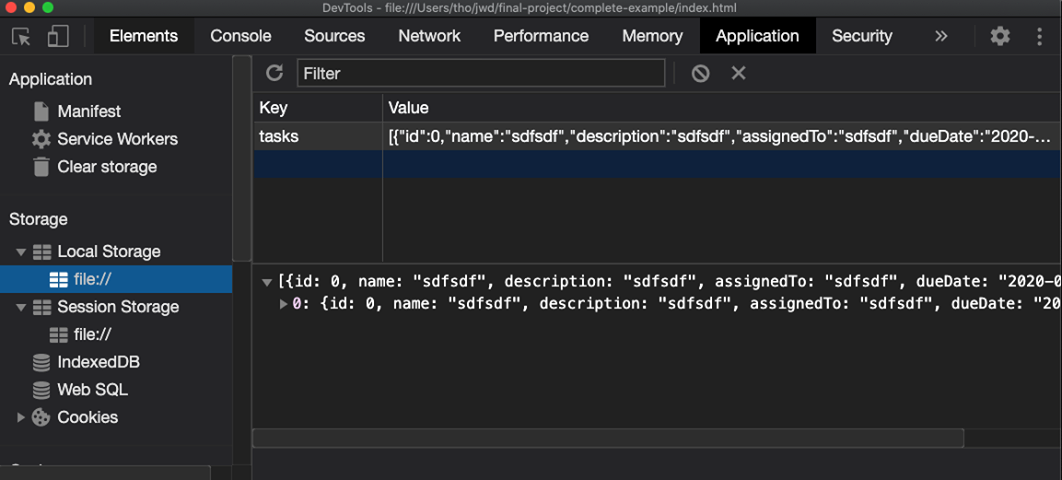
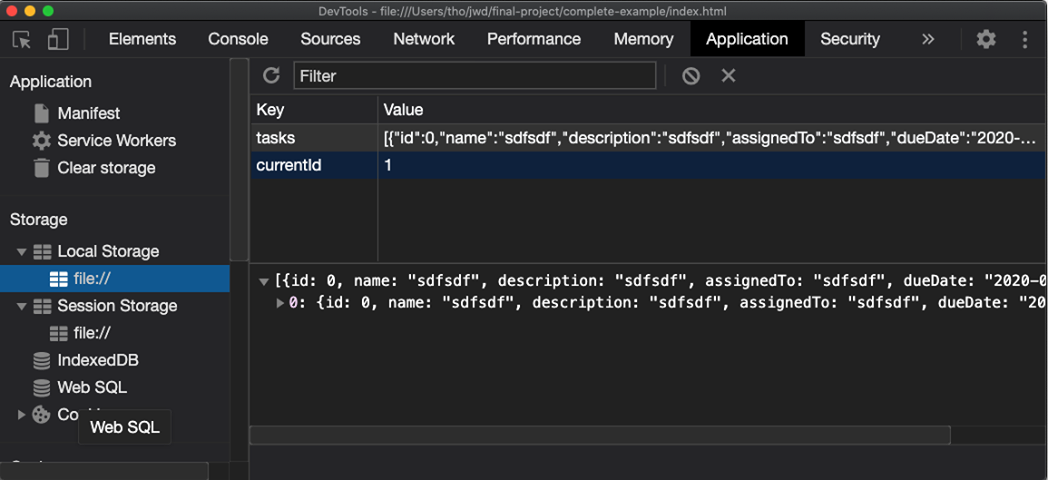
Add currentId to task-9

diff --git a/complete-example/js/taskManager.js b/complete-example/js/taskManager.js
@@ -2,6 +2,7 @@
 // Add an data-task-id attribute to each task
 // OPTIONAL 1: Add visible or invisible class to the "Mark As Done" button depending on if the status is 'TODO'
 // OPTIONAL 2: Change the styling of the status pill depending on the passed in status
+// Add a Delete button with the class delete-button
 const createTaskHtml = (id, name, description, assignedTo, dueDate, status) => `
     <li class="list-group-item" data-task-id=${id}>
         <div class="d-flex w-100 mt-2 justify-content-between align-items-center">
@@ -14,7 +15,8 @@ const createTaskHtml = (id, name, description, assignedTo, dueDate, status) => `
         </div>
         <p>${description}</p>
         <div class="d-flex w-100 justify-content-end">
-            <button class="btn btn-outline-success done-button ${status === 'TODO' ? 'visible' : 'invisible'}">Mark As Done</button>
+            <button class="btn btn-outline-success done-button mr-1 ${status === 'TODO' ? 'visible' : 'invisible'}">Mark As Done</button>
+            <button class="btn btn-outline-danger delete-button">Delete</button>
         </div>
     </li>
 `;
@@ -101,17 +103,32 @@ class TaskManager {
 
         // Store the JSON string in localStorage
         localStorage.setItem('tasks', tasksJson);
+
+        // Convert the currentId to a string;
+        const currentId = String(this.currentId);
+
+        // Store the currentId in localStorage
+        localStorage.setItem('currentId', currentId);
     }
 
     // Create the load method
     load() {
         // Check if any tasks are saved in localStorage
         if (localStorage.getItem('tasks')) {
-            // Get the JSON string of tasks in local storage
+            // Get the JSON string of tasks in localStorage
             const tasksJson = localStorage.getItem('tasks');
 
             // Convert it to an array and store it in our TaskManager
             this.tasks = JSON.parse(tasksJson);
+        }
+
+        // Check if the currentId is saved in localStorage
+        if (localStorage.getItem('currentId')) {
+            // Get the currentId string in localStorage
+            const currentId = localStorage.getItem('currentId');
+
+            // Convert the currentId to a number and store it in our TaskManager
+            this.currentId = Number(currentId);
         }
     }
 }

diff --git a/task-9/example/js/taskManager.js b/task-9/example/js/taskManager.js
@@ -75,17 +75,32 @@ class TaskManager {
 
         // Store the JSON string in localStorage
         localStorage.setItem('tasks', tasksJson);
+
+        // Convert the currentId to a string;
+        const currentId = String(this.currentId);
+
+        // Store the currentId in localStorage
+        localStorage.setItem('currentId', currentId);
     }
 
     // Create the load method
     load() {
         // Check if any tasks are saved in localStorage
         if (localStorage.getItem('tasks')) {
-            // Get the JSON string of tasks in local storage
+            // Get the JSON string of tasks in localStorage
             const tasksJson = localStorage.getItem('tasks');
 
             // Convert it to an array and store it in our TaskManager
             this.tasks = JSON.parse(tasksJson);
+        }
+
+        // Check if the currentId is saved in localStorage
+        if (localStorage.getItem('currentId')) {
+            // Get the currentId string in localStorage
+            const currentId = localStorage.getItem('currentId');
+
+            // Convert the currentId to a number and store it in our TaskManager
+            this.currentId = Number(currentId);
         }
     }
 }

diff --git a/task-9/README.md b/task-9/README.md
@@ -11,14 +11,19 @@ In this task, we'll _persist_ (ie: save) our tasks to LocalStorage, so that we c
 > #### Useful Resources for this step
 > - [Using the Web Storage API](https://developer.mozilla.org/en-US/docs/Web/API/Web_Storage_API/Using_the_Web_Storage_API)
 > - [JSON.stringify()](https://developer.mozilla.org/en-US/docs/Web/JavaScript/Reference/Global_Objects/JSON/stringify)
+> - [String](https://developer.mozilla.org/en-US/docs/Web/JavaScript/Reference/Global_Objects/String)
 
-In this step, we'll add a `save()` method to our TaskManager, that we can call to save the current `this.tasks` to localStorage.
+In this step, we'll add a `save()` method to our TaskManager, that we can call to save the current `this.tasks` to localStorage. We also need to save the `currentId` of the task we're working on, so that any new tasks after the application has loaded can continue off the `currentId`.
 
 Because `localStorage` can only store strings, we need a way to convert our `this.tasks` array to a string, that can also be converted _back_ to an array when we load the tasks. For this, we'll be using [JSON.stringify](https://developer.mozilla.org/en-US/docs/Web/JavaScript/Reference/Global_Objects/JSON/stringify), which we can [JSON.parse](https://developer.mozilla.org/en-US/docs/Web/JavaScript/Reference/Global_Objects/JSON/parse) later on to convert back to an array.
 
+Also, since our `currentId` is a number, we'll need to convert that to a string too.
+
 1. In `js/taskManager.js`, in the `TaskManager` class, create a `save` method. This method doesn't require any parameters.
 2. In the `save` method, create a JSON string of the tasks using `JSON.stringify()` and store it to a new variable, `tasksJson`.
-3. Store the JSON string in `localStorage` under the key `tasks` using `localStorage.setItem()`
+3. Store the JSON string in `localStorage` under the key `tasks` using `localStorage.setItem()`.
+4. Convert the `this.currentId` to a string and store it in a new variable, `currentId`.
+5. Store the `currentId` variable in `localStorage` under the key `currentId` using `localStorage.setItem()`.
 4. In `js/index.js`, after both adding a new task and updating a task's status to done, call `taskManager.save()` to save the tasks to `localSorage`.
 
 > #### Test Your Code!
@@ -28,7 +33,7 @@ Because `localStorage` can only store strings, we need a way to convert our `thi
 > 3. In the sidebar, under `Storage`, expand `Local Storage` and select `file://`
 >
 > **Expected Result**
-> You should see a key `tasks` with the stringified array of tasks as it's value.
+> You should see a key `tasks` with the stringified array of tasks as it's value, as well as a key `currentId` with the currentId as it's value.
 > ![Image of Expected Result](images/1.png)
 
 ### Step 2: Adding the load method to TaskManager
@@ -37,18 +42,26 @@ Because `localStorage` can only store strings, we need a way to convert our `thi
 > - [Using the Web Storage API](https://developer.mozilla.org/en-US/docs/Web/API/Web_Storage_API/Using_the_Web_Storage_API)
 > - [JSON.parse](https://developer.mozilla.org/en-US/docs/Web/JavaScript/Reference/Global_Objects/JSON/parse)
 
-Now that we have saved our tasks to `localStorage`, we need a way to load them back into our `TaskManager` when we load the application.
+Now that we have saved our tasks to `localStorage`, we need a way to load them back into our `TaskManager` when we load the application. As well as loading our `currentId` back into our `TaskManager`.
 
-For this, we'll be transforming the array we _stringified_ with `JSON.stringify()` back to an array, using `JSON.parse()`, before storing them back into the `TaskManager`'s `this.tasks`.
+For this, we'll be converting the array we _stringified_ with `JSON.stringify()` back to an array, using `JSON.parse()`, before storing them back into the `TaskManager`'s `this.tasks`.
+
+We'll also be converting the `currentId` number we converted as a string, back to a number.
 
 1. In `js/taskManager.js`, add a new method called `load`. This method doesn't require any parameters.
-2. In the `load` method, get the JSON string of tasks stored in `localStorage` with `localStorage.getItem()`, making sure to pass the key we used to save the tasks, `tasks`. Store this string into a new variable, `tasksJson`.
-3. Convert the `tasksJson` string to an array using `JSON.parse()` and store it in `this.tasks`.\
-4. In `js/index.js`, near the top of the file, after _instantiating_ `taskManager`, `load` the tasks with `taskManager.load()` and render them with `taskManager.render()`.
+2. In the `load` method, check if any tasks are saved in localStorage with `localStorage.getItem()`.
+3. If any tasks are stored, get the JSON string of tasks stored in `localStorage` with `localStorage.getItem()`, making sure to pass the key we used to save the tasks, `tasks`. Store this string into a new variable, `tasksJson`.
+4. Convert the `tasksJson` string to an array using `JSON.parse()` and store it in `this.tasks`.
+5. Next, check if the `currentId` is saved in localStorage with `localStorage.getItem()`.
+6. If the `currentId` is stored, get the `currentId` in localStorage using `localStorage.getItem()` and store it in a new variable, `currentId`.
+7. Convert the currentId to a number before storing it to the `TaskManager`'s `this.currentId`
+8. In `js/index.js`, near the top of the file, after _instantiating_ `taskManager`, `load` the tasks with `taskManager.load()` and render them with `taskManager.render()`.
 
 ## Results
 
 Open up `index.html` and add a task. Now, when you re-visit the page (eg: close and open or refresh), you should see the previously created task loaded and rendered to the page! 
+
+Also, since we saved the `currentId`, any _new_ task we create should use the next `currentId`, after the one stored in `localStorage`.
 
 ## Example
 
